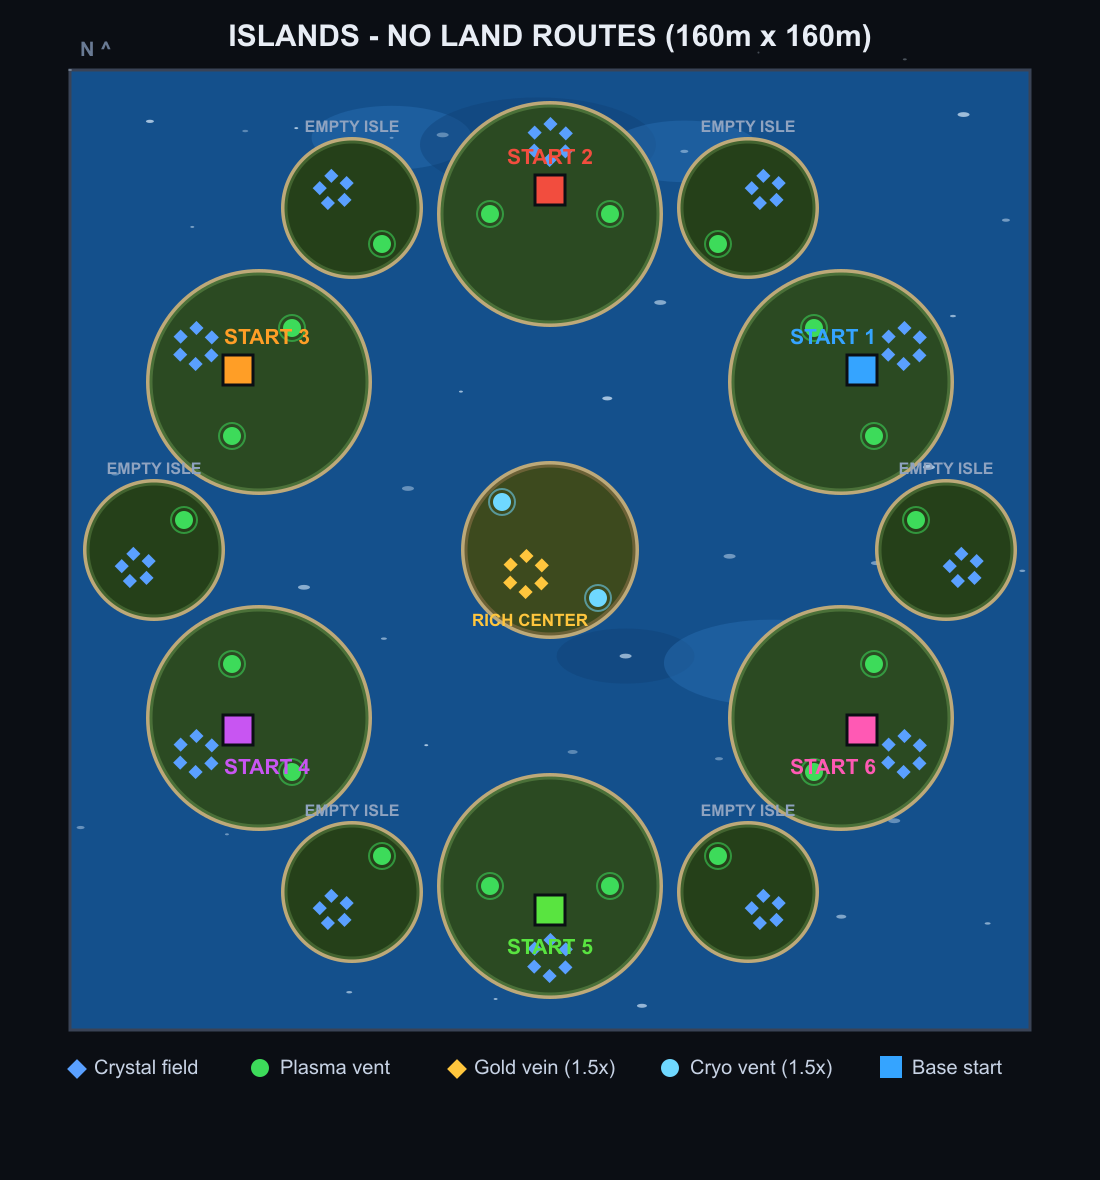
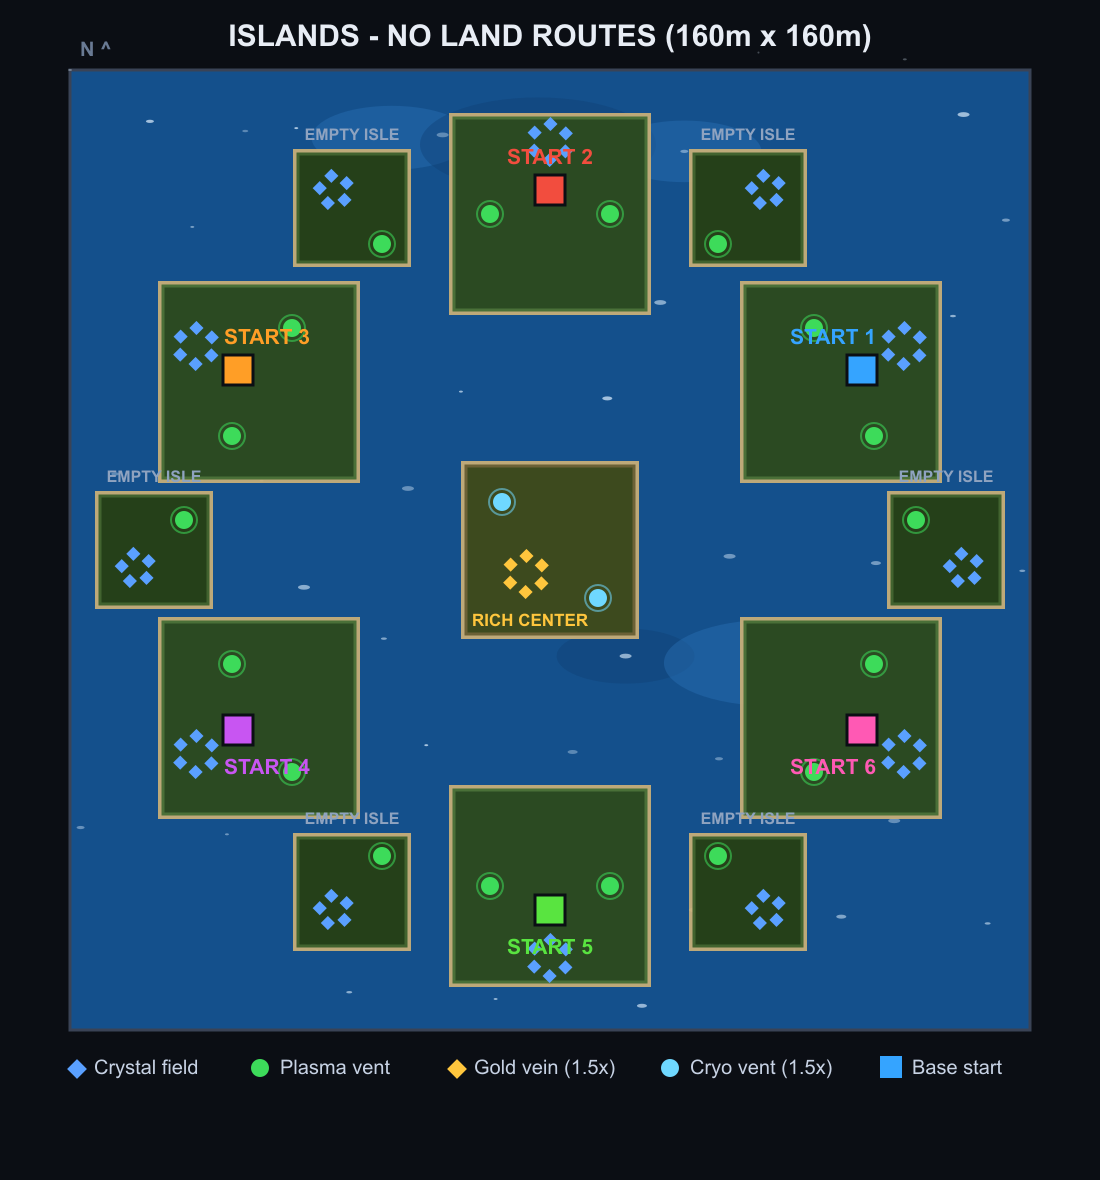
Islands become squares: flat edges give predictable building placement and more usable corner space. IslandZone drops radius for halfSize, walkability/island-index checks switch from circle to box tests, terrain renders square grass plates over square sand borders (meadow patches stay round - they'r

Changed region(s): [[0.0618, 0.061, 0.9273, 0.8542], [0.4018, 0.3661, 0.5873, 0.5492], [0.4018, 0.3661, 0.4945, 0.4576]]

diff --git a/src/rts/maps.ts b/src/rts/maps.ts
@@ -5,8 +5,8 @@ import { Vector3 } from '@dcl/sdk/math'
 // base anchors and resource layout; the match setup screen and the MP lobby
 // both pick from this list (the lobby syncs the choice via LobbyConfig.mapId).
 
-/** A walkable ground disc on island maps; everything outside every zone is void. */
-export type IslandZone = { x: number; z: number; radius: number }
+/** A walkable square of ground on island maps (halfSize = half the side length); everything outside every zone is water. */
+export type IslandZone = { x: number; z: number; halfSize: number }
 
 export type MapDefinition = {
   id: string
@@ -30,27 +30,30 @@ export type MapDefinition = {
 // ocean. No land routes at all: expanding or attacking means transports.
 // Layout math: player islands on a ring of radius 56 at 30/90/150/210/270/330
 // degrees, expansion isles on a ring of 66 at 0/60/.../300 degrees.
+// Islands are SQUARES (flat edges = predictable building placement). Sizes are
+// capped so no two squares ever touch: adjacent player/expansion centers sit
+// 28-29m apart on one axis, so 16 + 9 leaves a guaranteed 3m+ water strait.
 // ---------------------------------------------------------------------------
 
 const SKY_PLAYER_ISLANDS: IslandZone[] = [
-  { x: 128.5, z: 108, radius: 18 },
-  { x: 80, z: 136, radius: 18 },
-  { x: 31.5, z: 108, radius: 18 },
-  { x: 31.5, z: 52, radius: 18 },
-  { x: 80, z: 24, radius: 18 },
-  { x: 128.5, z: 52, radius: 18 }
+  { x: 128.5, z: 108, halfSize: 16 },
+  { x: 80, z: 136, halfSize: 16 },
+  { x: 31.5, z: 108, halfSize: 16 },
+  { x: 31.5, z: 52, halfSize: 16 },
+  { x: 80, z: 24, halfSize: 16 },
+  { x: 128.5, z: 52, halfSize: 16 }
 ]
 
 const SKY_EXPANSION_ISLANDS: IslandZone[] = [
-  { x: 146, z: 80, radius: 11 },
-  { x: 113, z: 137, radius: 11 },
-  { x: 47, z: 137, radius: 11 },
-  { x: 14, z: 80, radius: 11 },
-  { x: 47, z: 23, radius: 11 },
-  { x: 113, z: 23, radius: 11 }
+  { x: 146, z: 80, halfSize: 9 },
+  { x: 113, z: 137, halfSize: 9 },
+  { x: 47, z: 137, halfSize: 9 },
+  { x: 14, z: 80, halfSize: 9 },
+  { x: 47, z: 23, halfSize: 9 },
+  { x: 113, z: 23, halfSize: 9 }
 ]
 
-const SKY_CENTER_ISLAND: IslandZone = { x: 80, z: 80, radius: 14 }
+const SKY_CENTER_ISLAND: IslandZone = { x: 80, z: 80, halfSize: 14 }
 
 export const ISLANDS_ZONES: IslandZone[] = [...SKY_PLAYER_ISLANDS, ...SKY_EXPANSION_ISLANDS, SKY_CENTER_ISLAND]
 
@@ -168,14 +171,12 @@ export function isIslandMap(): boolean {
   return activeIslands !== undefined
 }
 
-/** Can a ground unit stand here? Solid-ground maps: always yes. */
+/** Can a ground unit stand here? Solid-ground maps: always yes. Islands are squares, so this is a box test. */
 export function isGroundWalkable(x: number, z: number): boolean {
   if (!activeIslands) return true
   for (const island of activeIslands) {
-    const dx = x - island.x
-    const dz = z - island.z
-    const reach = island.radius + EDGE_MARGIN
-    if (dx * dx + dz * dz <= reach * reach) return true
+    const reach = island.halfSize + EDGE_MARGIN
+    if (Math.abs(x - island.x) <= reach && Math.abs(z - island.z) <= reach) return true
   }
   return false
 }
@@ -185,9 +186,7 @@ export function islandIndexAt(x: number, z: number): number {
   if (!activeIslands) return -1
   for (let i = 0; i < activeIslands.length; i++) {
     const island = activeIslands[i]
-    const dx = x - island.x
-    const dz = z - island.z
-    if (dx * dx + dz * dz <= island.radius * island.radius) return i
+    if (Math.abs(x - island.x) <= island.halfSize && Math.abs(z - island.z) <= island.halfSize) return i
   }
   return -1
 }

diff --git a/src/rts/islandTerrain.ts b/src/rts/islandTerrain.ts
@@ -82,10 +82,8 @@ function createOceanFloor(): void {
 function createWaveLayer(islands: IslandZone[]): void {
   const isInWater = (x: number, z: number, clearance: number): boolean =>
     !islands.some((island) => {
-      const dx = x - island.x
-      const dz = z - island.z
-      const reach = island.radius + clearance
-      return dx * dx + dz * dz < reach * reach
+      const reach = island.halfSize + clearance
+      return Math.abs(x - island.x) < reach && Math.abs(z - island.z) < reach
     })
 
   // A few large translucent current patches for tonal depth.
@@ -146,15 +144,17 @@ function createWaveLayer(islands: IslandZone[]): void {
   }
 }
 
-/** One island: sandy beach ring under a grassy surface disc. */
+/** One island: a square grass plate over a sandy beach border - flat edges make building placement predictable. */
 function createIsland(island: IslandZone): void {
+  const side = island.halfSize * 2
+
   // Beach rim: pale sand peeking out under the grass, meeting the water.
   const rim = spawn()
   Transform.create(rim, {
     position: Vector3.create(island.x, 0.045, island.z),
-    scale: Vector3.create(island.radius * 2 + 1.6, 0.012, island.radius * 2 + 1.6)
+    scale: Vector3.create(side + 1.6, 0.012, side + 1.6)
   })
-  MeshRenderer.setCylinder(rim)
+  MeshRenderer.setBox(rim)
   Material.setPbrMaterial(rim, {
     albedoColor: Color4.create(0.82, 0.72, 0.5, 1),
     metallic: 0,
@@ -167,9 +167,9 @@ function createIsland(island: IslandZone): void {
   const surface = spawn()
   Transform.create(surface, {
     position: Vector3.create(island.x, 0.06, island.z),
-    scale: Vector3.create(island.radius * 2, 0.014, island.radius * 2)
+    scale: Vector3.create(side, 0.014, side)
   })
-  MeshRenderer.setCylinder(surface)
+  MeshRenderer.setBox(surface)
   Material.setPbrMaterial(surface, {
     texture: Material.Texture.Common({ src: GRASS_TEXTURE, wrapMode: TextureWrapMode.TWM_REPEAT }),
     albedoColor: Color4.create(0.95, 1, 0.9, 1),
@@ -179,15 +179,15 @@ function createIsland(island: IslandZone): void {
     castShadows: false
   })
 
-  // A couple of soft meadow patches per island so the grass isn't uniform.
+  // A couple of soft meadow patches per island so the grass isn't uniform
+  // (still round - they're vegetation, not land).
   const patches = 2 + Math.floor(random() * 2)
   for (let i = 0; i < patches; i++) {
     const patch = spawn()
-    const patchSize = island.radius * (0.35 + random() * 0.4)
-    const angle = random() * Math.PI * 2
-    const reach = random() * (island.radius - patchSize * 0.6)
+    const patchSize = island.halfSize * (0.35 + random() * 0.4)
+    const reach = island.halfSize - patchSize * 0.6
     Transform.create(patch, {
-      position: Vector3.create(island.x + Math.cos(angle) * reach, 0.075 + i * 0.004, island.z + Math.sin(angle) * reach),
+      position: Vector3.create(island.x + (random() * 2 - 1) * reach, 0.075 + i * 0.004, island.z + (random() * 2 - 1) * reach),
       scale: Vector3.create(patchSize, 0.008, patchSize)
     })
     MeshRenderer.setCylinder(patch)

diff --git a/src/rts/minimap.tsx b/src/rts/minimap.tsx
@@ -187,11 +187,9 @@ function terrainLayer() {
     ]
     for (let i = 0; i < islands.length; i++) {
       const island = islands[i]
-      const diameter = island.radius * 2 * MAP_SCALE
-      // Three overlapping rects fake a rounded island (UI has no circles).
-      elements.push(terrainRectSized(`isle-${i}-a`, island.x, island.z, diameter * 0.94, diameter * 0.62, MINIMAP_COLORS.island))
-      elements.push(terrainRectSized(`isle-${i}-b`, island.x, island.z, diameter * 0.62, diameter * 0.94, MINIMAP_COLORS.island))
-      elements.push(terrainRectSized(`isle-${i}-c`, island.x, island.z, diameter * 0.8, diameter * 0.8, MINIMAP_COLORS.island))
+      // Islands are literal squares of land, so one rect each is exact.
+      const side = island.halfSize * 2 * MAP_SCALE
+      elements.push(terrainRectSized(`isle-${i}`, island.x, island.z, side, side, MINIMAP_COLORS.island))
     }
     return elements
   }
